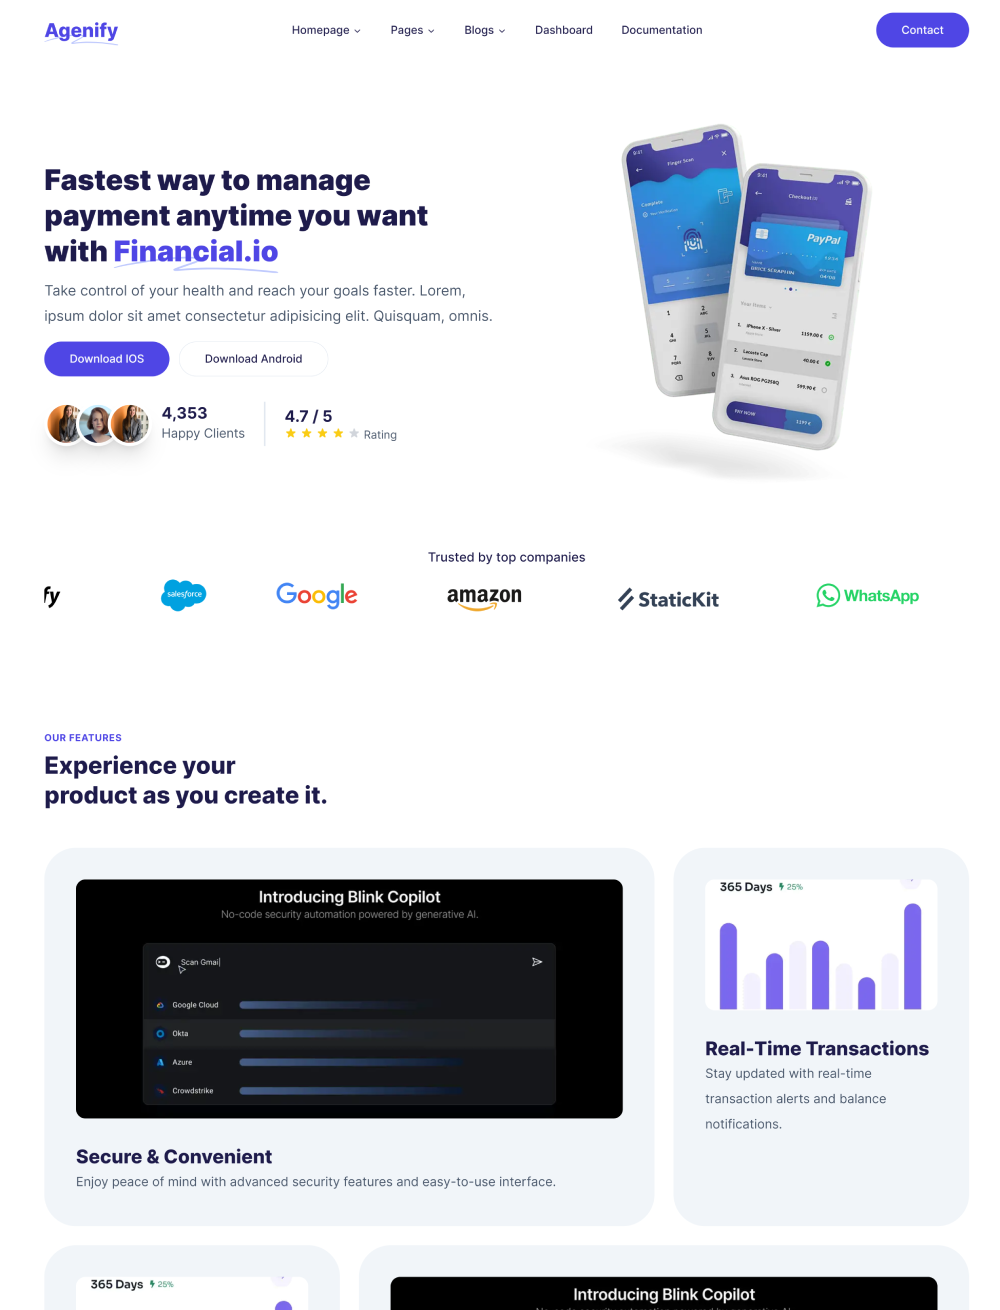
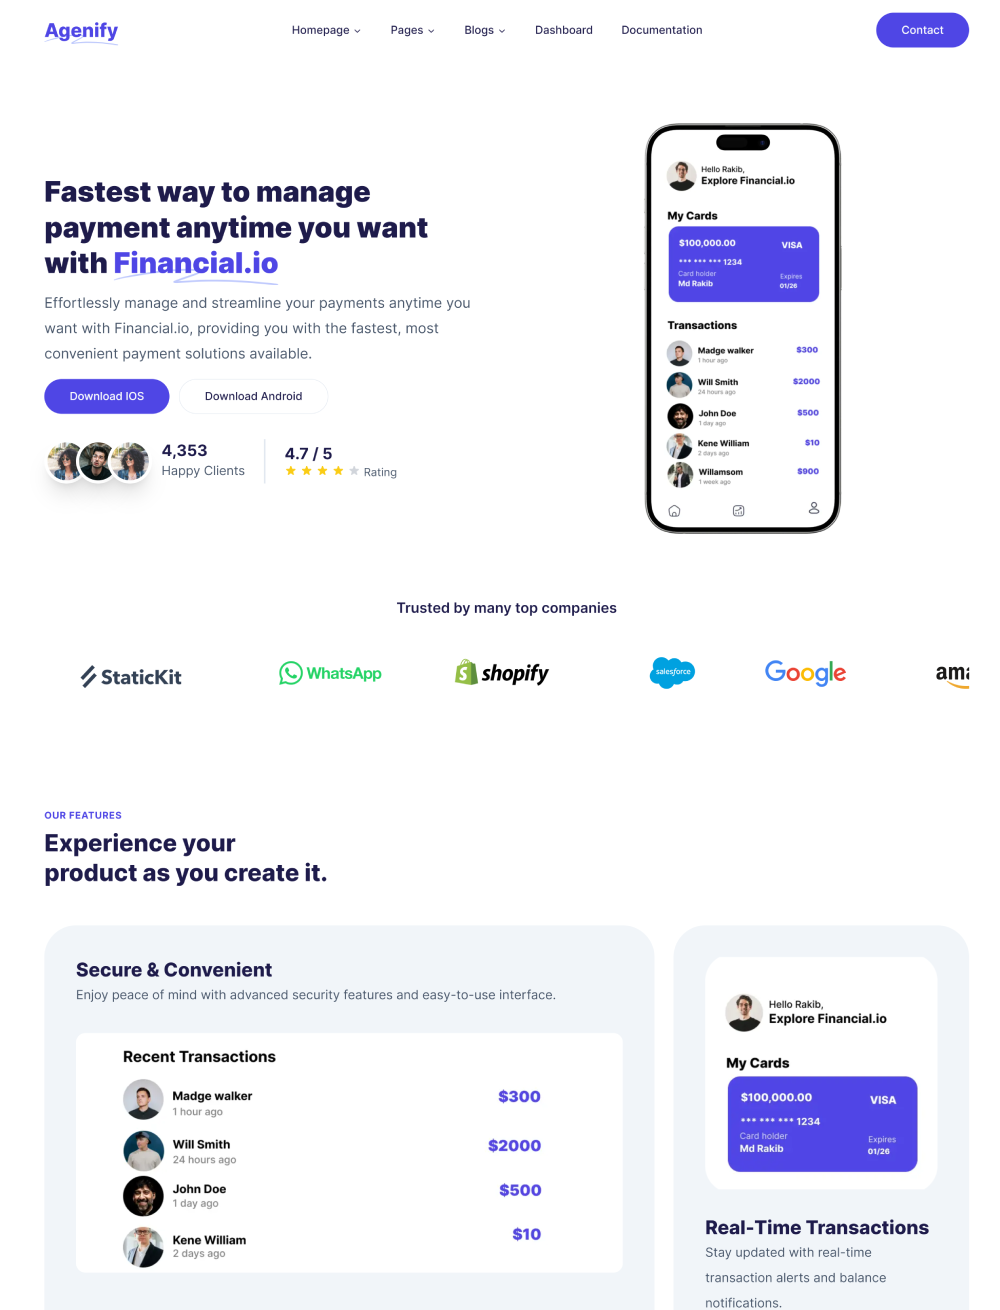
demo 4 image changes

diff --git a/src/sections/features/features-5.tsx b/src/sections/features/features-5.tsx
@@ -3,10 +3,10 @@ import { FadeIn, FadeInStagger } from "@/components/fade-in";
 import { SectionIntro } from "@/components/section-intro";
 import Image from "next/image";
 
-import featureImage1 from "@/images/demo-4/feature-1.webp";
-import featureImage2 from "@/images/demo-4/feature-2.webp";
-import featureImage3 from "@/images/demo-4/feature-3.webp";
-import featureImage4 from "@/images/demo-4/feature-4.webp";
+import featureImage1 from "@/images/demo-4/feature-1.png";
+import featureImage2 from "@/images/demo-4/feature-2.png";
+import featureImage3 from "@/images/demo-4/feature-3.png";
+import featureImage4 from "@/images/demo-4/feature-4.png";
 import { generateBlurImageURL } from "@/lib/data/blur-image-data";
 
 export default function Features5() {
@@ -20,6 +20,13 @@ export default function Features5() {
         ></SectionIntro>
         <FadeInStagger faster className="grid grid-cols-12 gap-6">
           <FadeIn className="col-span-12 md:col-span-8 p-10 bg-slate-100 rounded-[40px]">
+            <h3 className="text-xl md:text-2xl font-extrabold text-foreground">
+              Secure & Convenient
+            </h3>
+            <p className="text-base leading-8 text-muted-foreground mb-8">
+              Enjoy peace of mind with advanced security features and
+              easy-to-use interface.
+            </p>
             <div className="relative aspect-[16/7]">
               <Image
                 src={featureImage1}
@@ -30,16 +37,9 @@ export default function Features5() {
                 className="rounded-xl block object-cover"
               />
             </div>
-            <h3 className="text-xl md:text-2xl font-extrabold text-foreground mt-8">
-              Secure & Convenient
-            </h3>
-            <p className="text-base leading-8 text-muted-foreground">
-              Enjoy peace of mind with advanced security features and
-              easy-to-use interface.
-            </p>
           </FadeIn>
           <FadeIn className="col-span-12 md:col-span-4 p-10 bg-slate-100 rounded-[40px]">
-            <div className="relative aspect-video">
+            <div className="relative aspect-square">
               <Image
                 src={featureImage2}
                 alt=""
@@ -58,7 +58,7 @@ export default function Features5() {
             </p>
           </FadeIn>
           <FadeIn className="col-span-12 md:col-span-4 p-10 bg-slate-100 rounded-[40px]">
-            <div className="relative aspect-video">
+            <div className="relative aspect-square">
               <Image
                 src={featureImage3}
                 alt=""
@@ -69,7 +69,7 @@ export default function Features5() {
               />
             </div>
             <h3 className="text-xl md:text-2xl font-extrabold text-foreground mt-8">
-              Real-Time Transactions
+              Tracking
             </h3>
             <p className="text-base leading-8 text-muted-foreground">
               Stay updated with real-time transaction alerts and balance
@@ -77,7 +77,14 @@ export default function Features5() {
             </p>
           </FadeIn>
           <FadeIn className="col-span-12 md:col-span-8 p-10 bg-slate-100 rounded-[40px]">
-            <div className="relative aspect-[16/7]">
+            <h3 className="text-xl md:text-2xl font-extrabold text-foreground">
+              Secure & Convenient
+            </h3>
+            <p className="text-base leading-8 text-muted-foreground mb-8">
+              Enjoy peace of mind with advanced security features and
+              easy-to-use interface.
+            </p>
+            <div className="relative aspect-[16/8]">
               <Image
                 src={featureImage4}
                 alt=""
@@ -87,13 +94,6 @@ export default function Features5() {
                 className="rounded-xl block object-cover"
               />
             </div>
-            <h3 className="text-xl md:text-2xl font-extrabold text-foreground mt-8">
-              Secure & Convenient
-            </h3>
-            <p className="text-base leading-8 text-muted-foreground">
-              Enjoy peace of mind with advanced security features and
-              easy-to-use interface.
-            </p>
           </FadeIn>
         </FadeInStagger>
       </Container>
